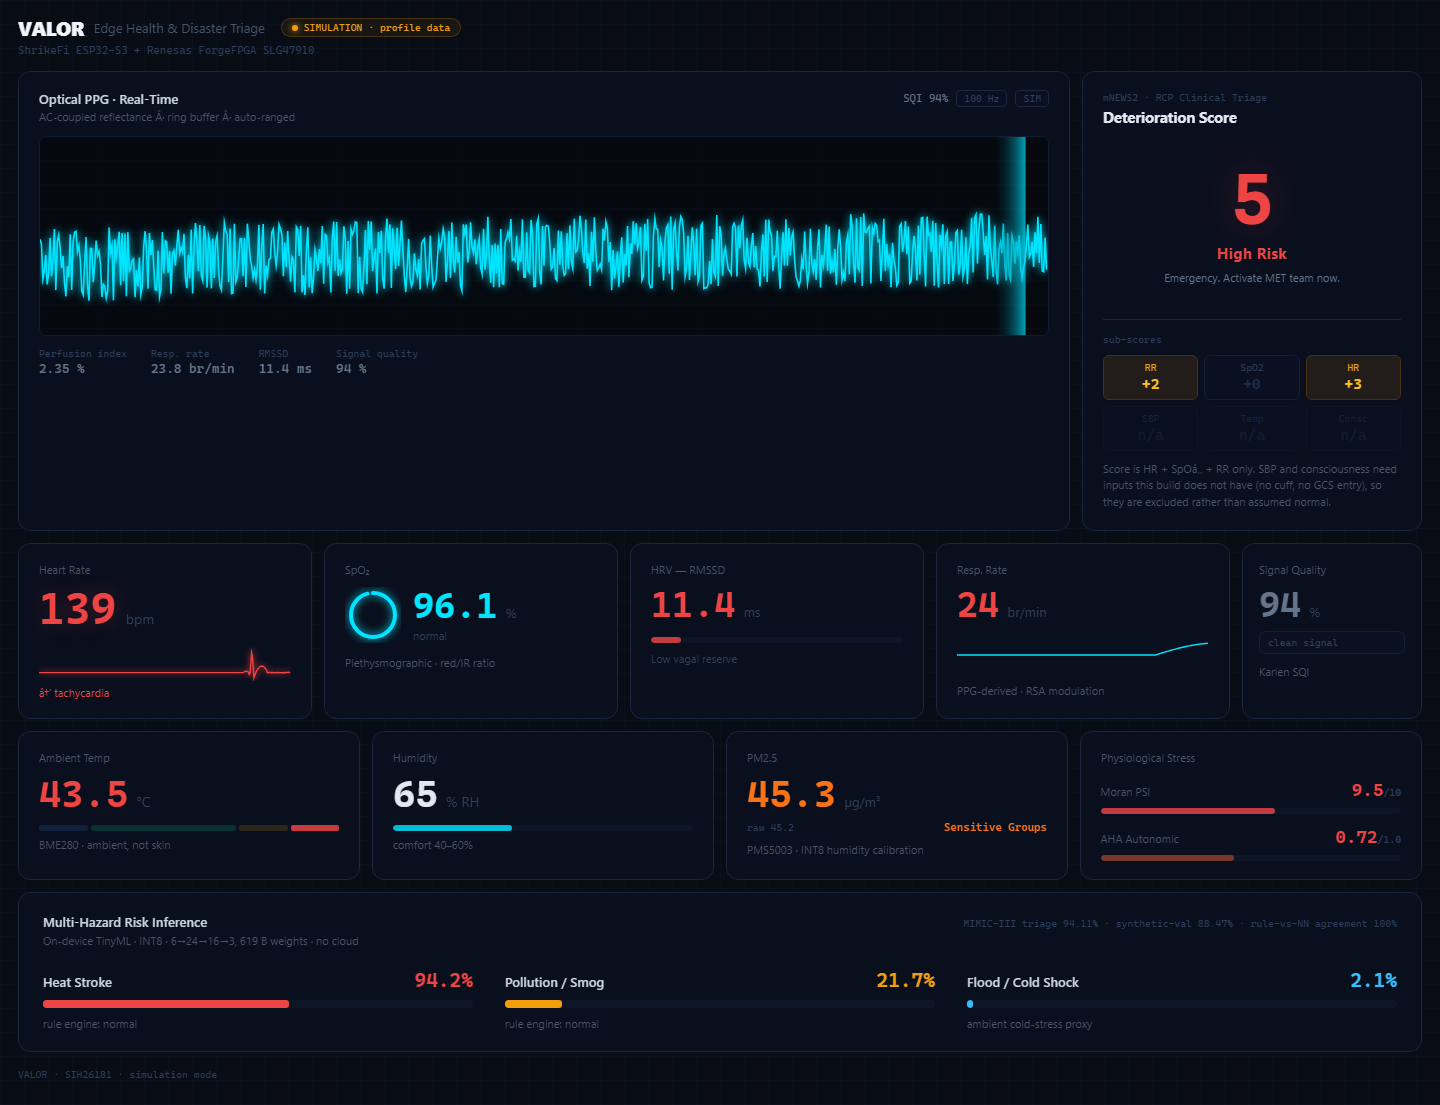
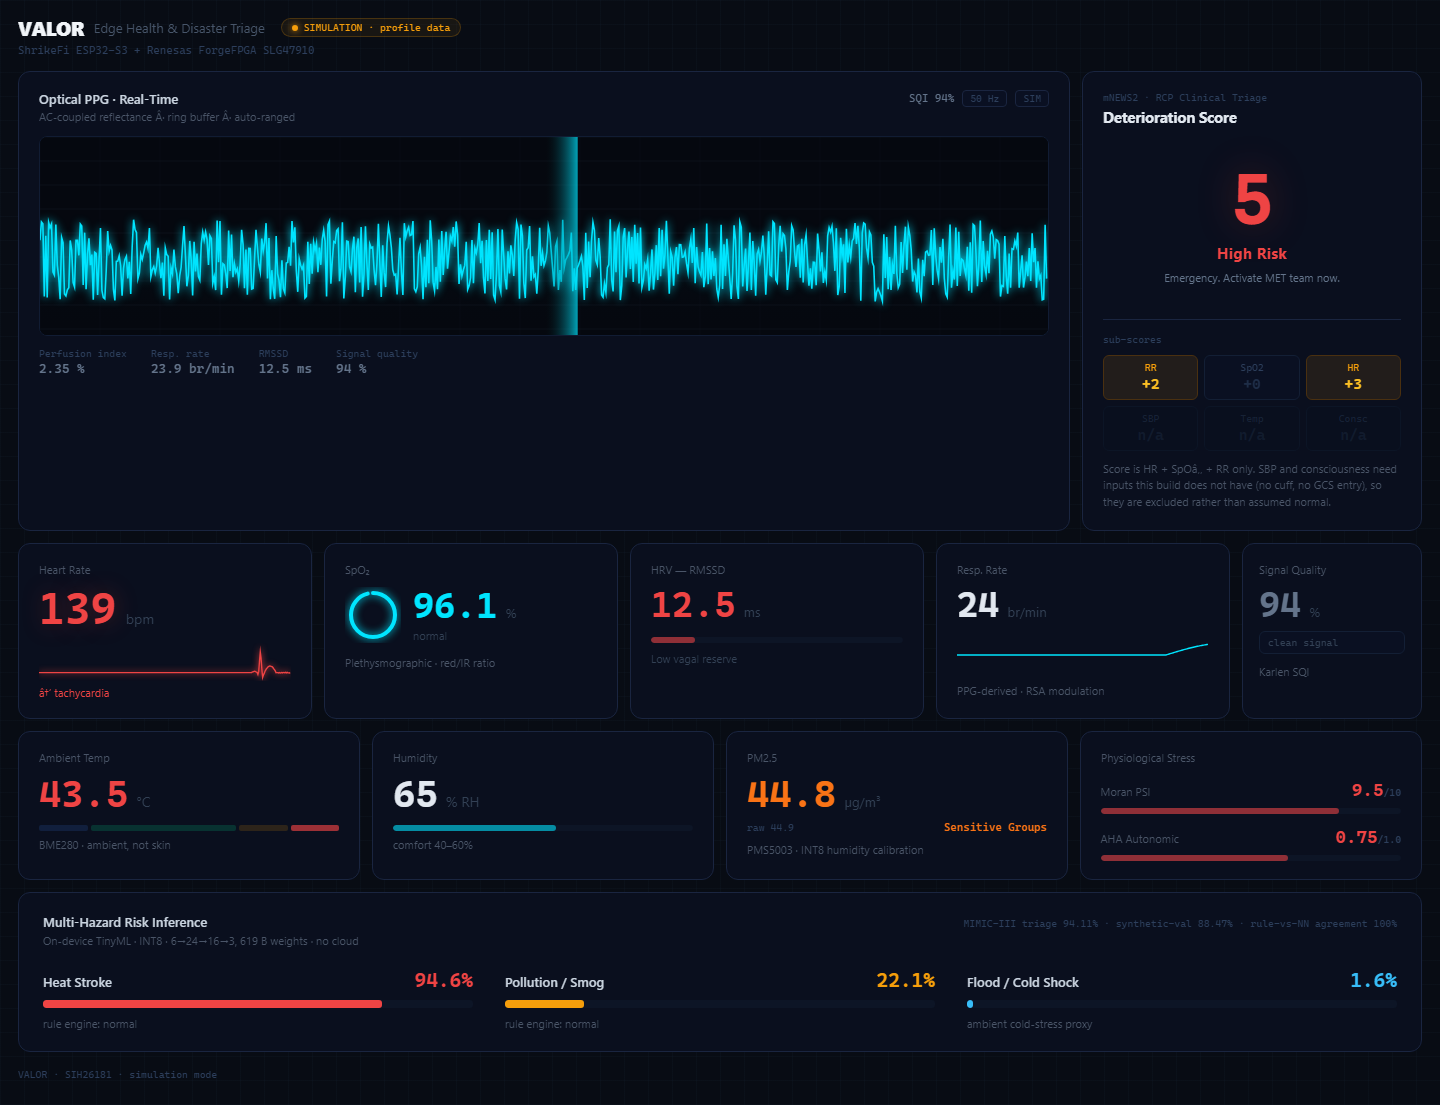
fix(dashboard): tick simulated vitals at 1 Hz, and measure the live sample rate
Two cadence bugs, both about the dashboard showing a rate the hardware does not
use.

1. Simulation updated the numeric readouts once per animation frame, so at
   ~60 Hz the values jittered into a flickering blur. The device paces its
   assessment task with vTaskDelay(pdMS_TO_TICKS(1000)) in main_shrikefi.c, so
   [TELEMETRY] and [TRIAGE] arrive exactly once a second - live mode was calm
   and simulation looked nothing like it. Simulated vitals now tick at 1 Hz
   through a dt accumulator. The PPG, ECG and respiration waveforms still
   animate every frame; a scrolling trace is not a number.

2. The scope badge asserted 100 Hz. The PPG task runs at 50 Hz
   (vTaskDelay(20 ms), main_shrikefi.c:831), so the badge was simply wrong. It
   now counts samples per second in live mode and reports what it measured, and
   shows 50 Hz in simulation.

Verified: all six profiles and all URL variants still populate, no JS errors,
no console output.

diff --git a/firmware/shrikefi/dashboard/valor_dashboard.html b/firmware/shrikefi/dashboard/valor_dashboard.html
@@ -777,7 +777,7 @@ function render() {
   const sqiPct = Math.round(V.sqi);
   $('scope-sqi').textContent = 'SQI ' + sqiPct + '%';
   $('scope-sqi').style.color = V.sqi < 50 ? C.crimson : C.mid;
-  $('scope-rate').textContent = (mode === 'live' ? (sampleRate || '--') : '100') + ' Hz';
+  $('scope-rate').textContent = (mode === 'live' ? (sampleRate || '--') : '50') + ' Hz';
   $('scope-src').textContent = mode === 'live' ? 'LIVE' : 'SIM';
   $('scope-sub').textContent = mode === 'live'
     ? 'AC-coupled reflectance Â· live MAX30102 Â· auto-ranged'
@@ -1010,7 +1010,7 @@ function handleLine(line) {
 
   if (line.startsWith('[PPG]')) {
     const v = parseFloat(line.slice(5));
-    if (isFinite(v)) { PPG.push(v); sampleRate = sampleRate || 100; }
+    if (isFinite(v)) { PPG.push(v); ppgCount++; }
     return;
   }
 
@@ -1198,11 +1198,35 @@ PPG.draw(); ECG.draw(); RRC.draw(); drawArc();
 render();
 
 let last = performance.now();
+let simAccum = 0;          /* simulated vitals update accumulator */
+let ppgCount = 0;          /* live PPG samples seen this second */
+let ppgWindow = last;
+
 function frame(ts) {
   const dt = Math.min(ts - last, 60);
   last = ts;
 
-  if (mode === 'sim') { simStep(); simPPG(dt); }
+  if (mode === 'sim') {
+    /* Numeric vitals tick at 1 Hz, NOT once per animation frame.
+     *
+     * The device paces its assessment task with vTaskDelay(pdMS_TO_TICKS(1000))
+     * in main_shrikefi.c, so [TELEMETRY] and [TRIAGE] arrive once a second.
+     * Jittering the readouts at 60 Hz made the simulation look nothing like the
+     * hardware - a flickering blur instead of a patient monitor. The waveforms
+     * below still animate every frame, because a scrolling trace is not a
+     * number. */
+    simAccum += dt;
+    while (simAccum >= 1000) { simAccum -= 1000; simStep(); }
+    simPPG(dt);
+  }
+
+  /* Measure the live sample rate rather than asserting one. The PPG task runs
+   * at 50 Hz (vTaskDelay(20 ms)), not the 100 Hz the design mock-up claimed. */
+  if (mode === 'live' && lastSerialLine && ts - ppgWindow >= 1000) {
+    sampleRate = ppgCount;
+    ppgCount = 0;
+    ppgWindow = ts;
+  }
 
   /* Live mode with no data for 3s means the board stopped emitting; say so
      rather than freezing on stale numbers. */
